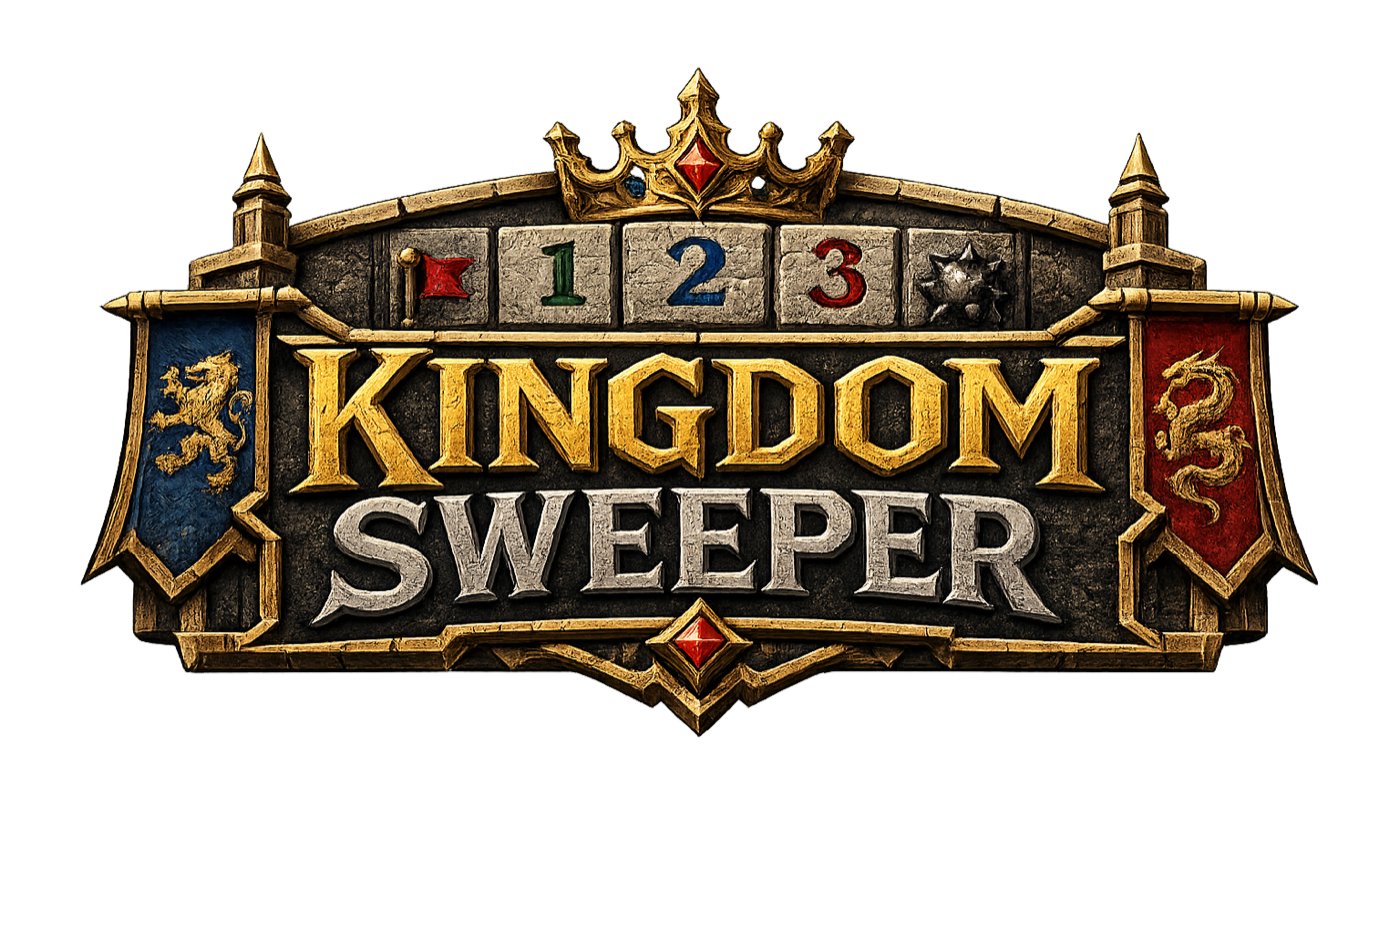
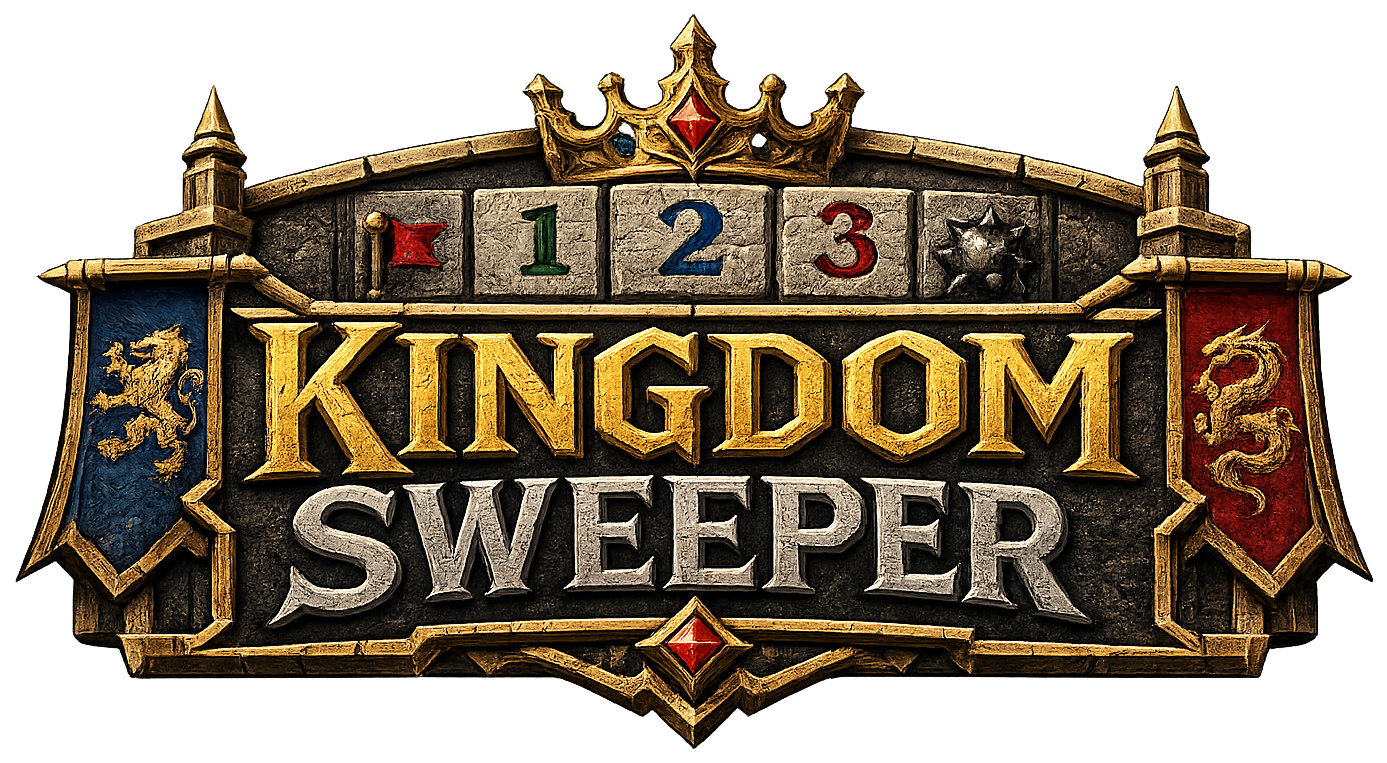
Fix card art sizing and opacity issues
- Kingdom Sweeper & Spellbash TD logos: trim transparent margins, render larger in cards
- Spellbash TD logo: harden semi-transparent alpha (was ~81% opaque)
- Looseleaf Labyrinth: crop card hero to notebook art (drop menu buttons)

diff --git a/style.css b/style.css
@@ -176,7 +176,8 @@ section { padding: 64px 0; }
   box-shadow: 0 14px 40px #000000cc, 0 0 0 1px #ffffff22;
   z-index: 1;
 }
-.media.pad { padding: 8%; }
+.media.pad { padding: 4%; }
+.media.pad .contain { max-width: 96%; max-height: 96%; }
 
 .badge {
   position: absolute; top: 12px; right: 12px; z-index: 2;